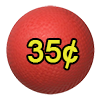
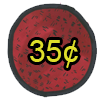
Dodgeball prefab/images updated
@jwestwinds to fix collider

diff --git a/Assets/Scripts/Data/ItemDatabase.cs b/Assets/Scripts/Data/ItemDatabase.cs
@@ -9,7 +9,7 @@ public class ItemDatabase : MonoBehaviour {
 		items.Add (new Item ("BubbleGum", 0, "Slows down enemies \n when they step on this.", 0, 0, 2.2, Item.ItemType.Stat, 25, "BubbleGumGirl"));
 		items.Add (new Item ("Paperwad", 1, "Deals 1 damage \n point towards enemies", 1, 8, 0, Item.ItemType.Weapon, 15, "PaperwadBoy"));
 		items.Add (new Item ("Baseball", 2, "Deals 1 damage \n point towards enemies. Can hit multiple enemies", 1, 8, 0, Item.ItemType.Weapon, 40, "BaseballBoy"));
-		items.Add (new Item ("dodgeballer", 3, "Deals 1 damage \n point towards nearby enemies. Can hit multiple enemies", 1, 8, 0, Item.ItemType.Weapon, 35, "DodgeballGirl"));
+		items.Add (new Item ("Dodgeball", 3, "Deals 1 damage \n point towards nearby enemies. Can hit multiple enemies", 1, 8, 0, Item.ItemType.Weapon, 35, "DodgeballGirl"));
 		items.Add (new Item ("paperplane", 4, "Deals 2 damage \n point towards nearby enemies.", 2, 7, 0, Item.ItemType.Weapon, 50, "PaperplaneGirl"));
 		items.Add (new Item ("candy", 5, "Slows an enemy down.", 0, 8, 0, Item.ItemType.Stat, 20, "Candykid"));
 		items.Add (new Item ("Tack", 6, "Hits an enemy with 1 point of damage. Slows enemy a bit.", 0, 8, 0, Item.ItemType.Stat, 40, "Tackkid"));
